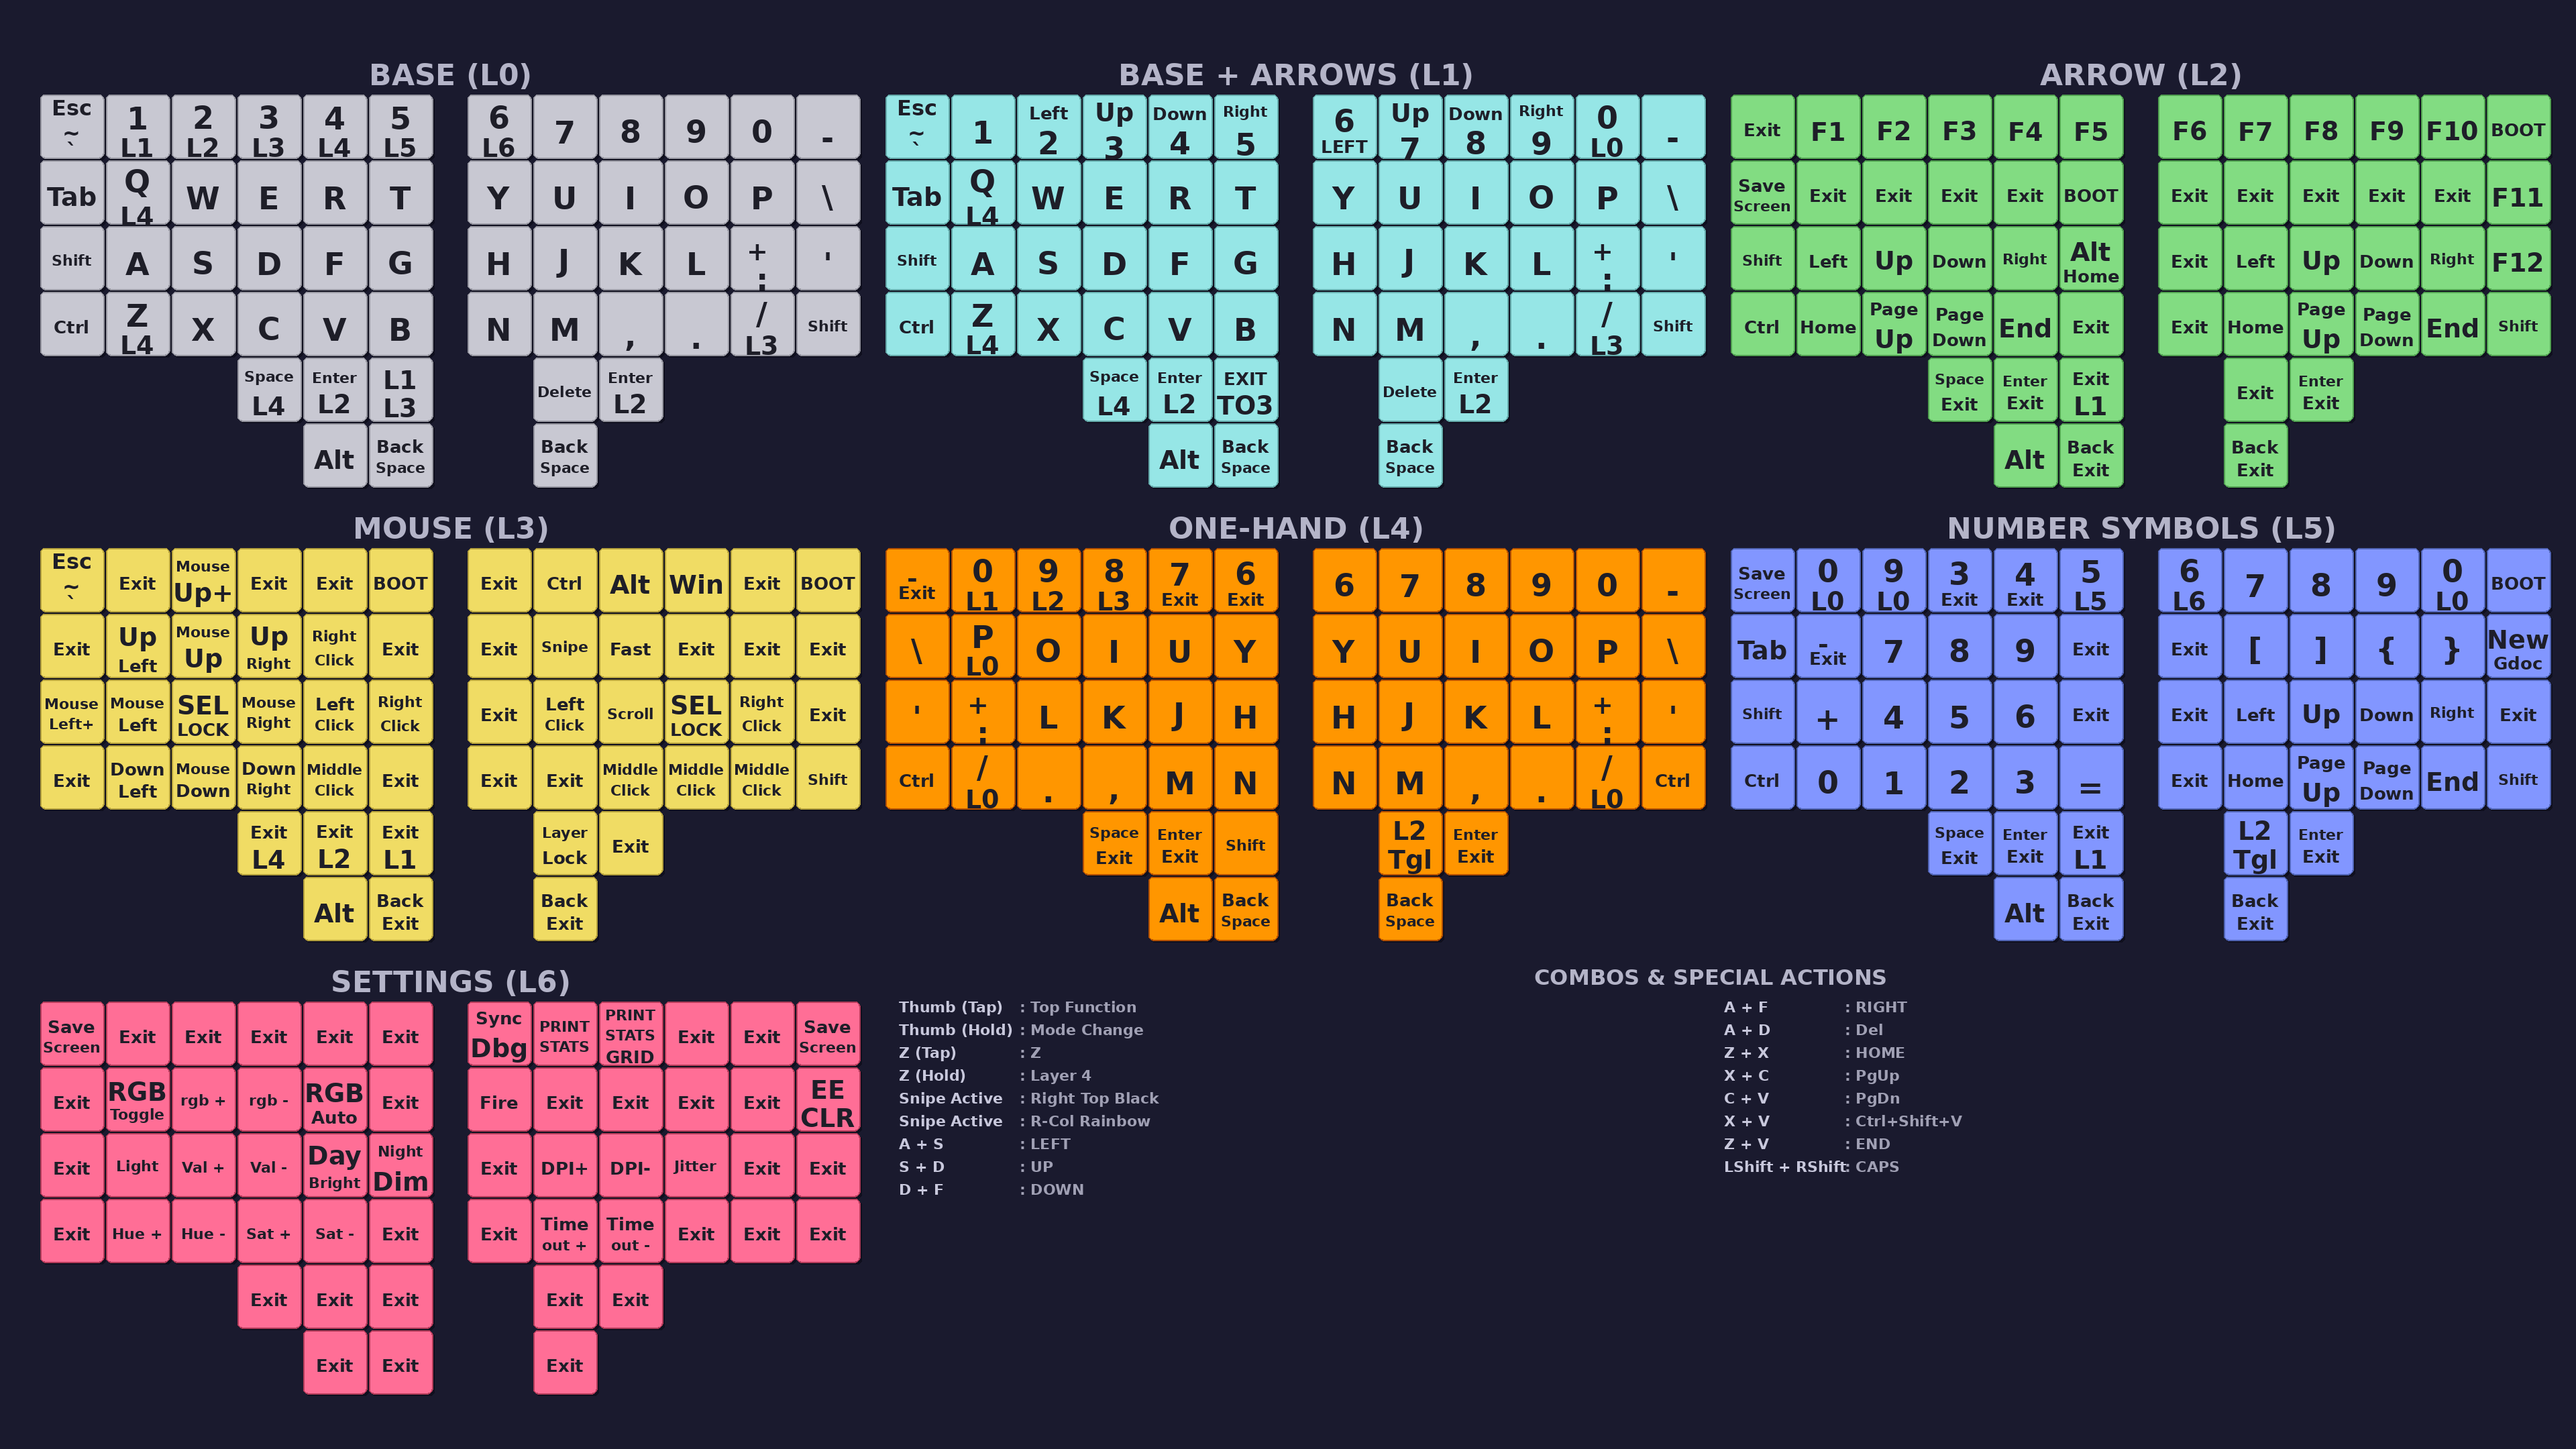
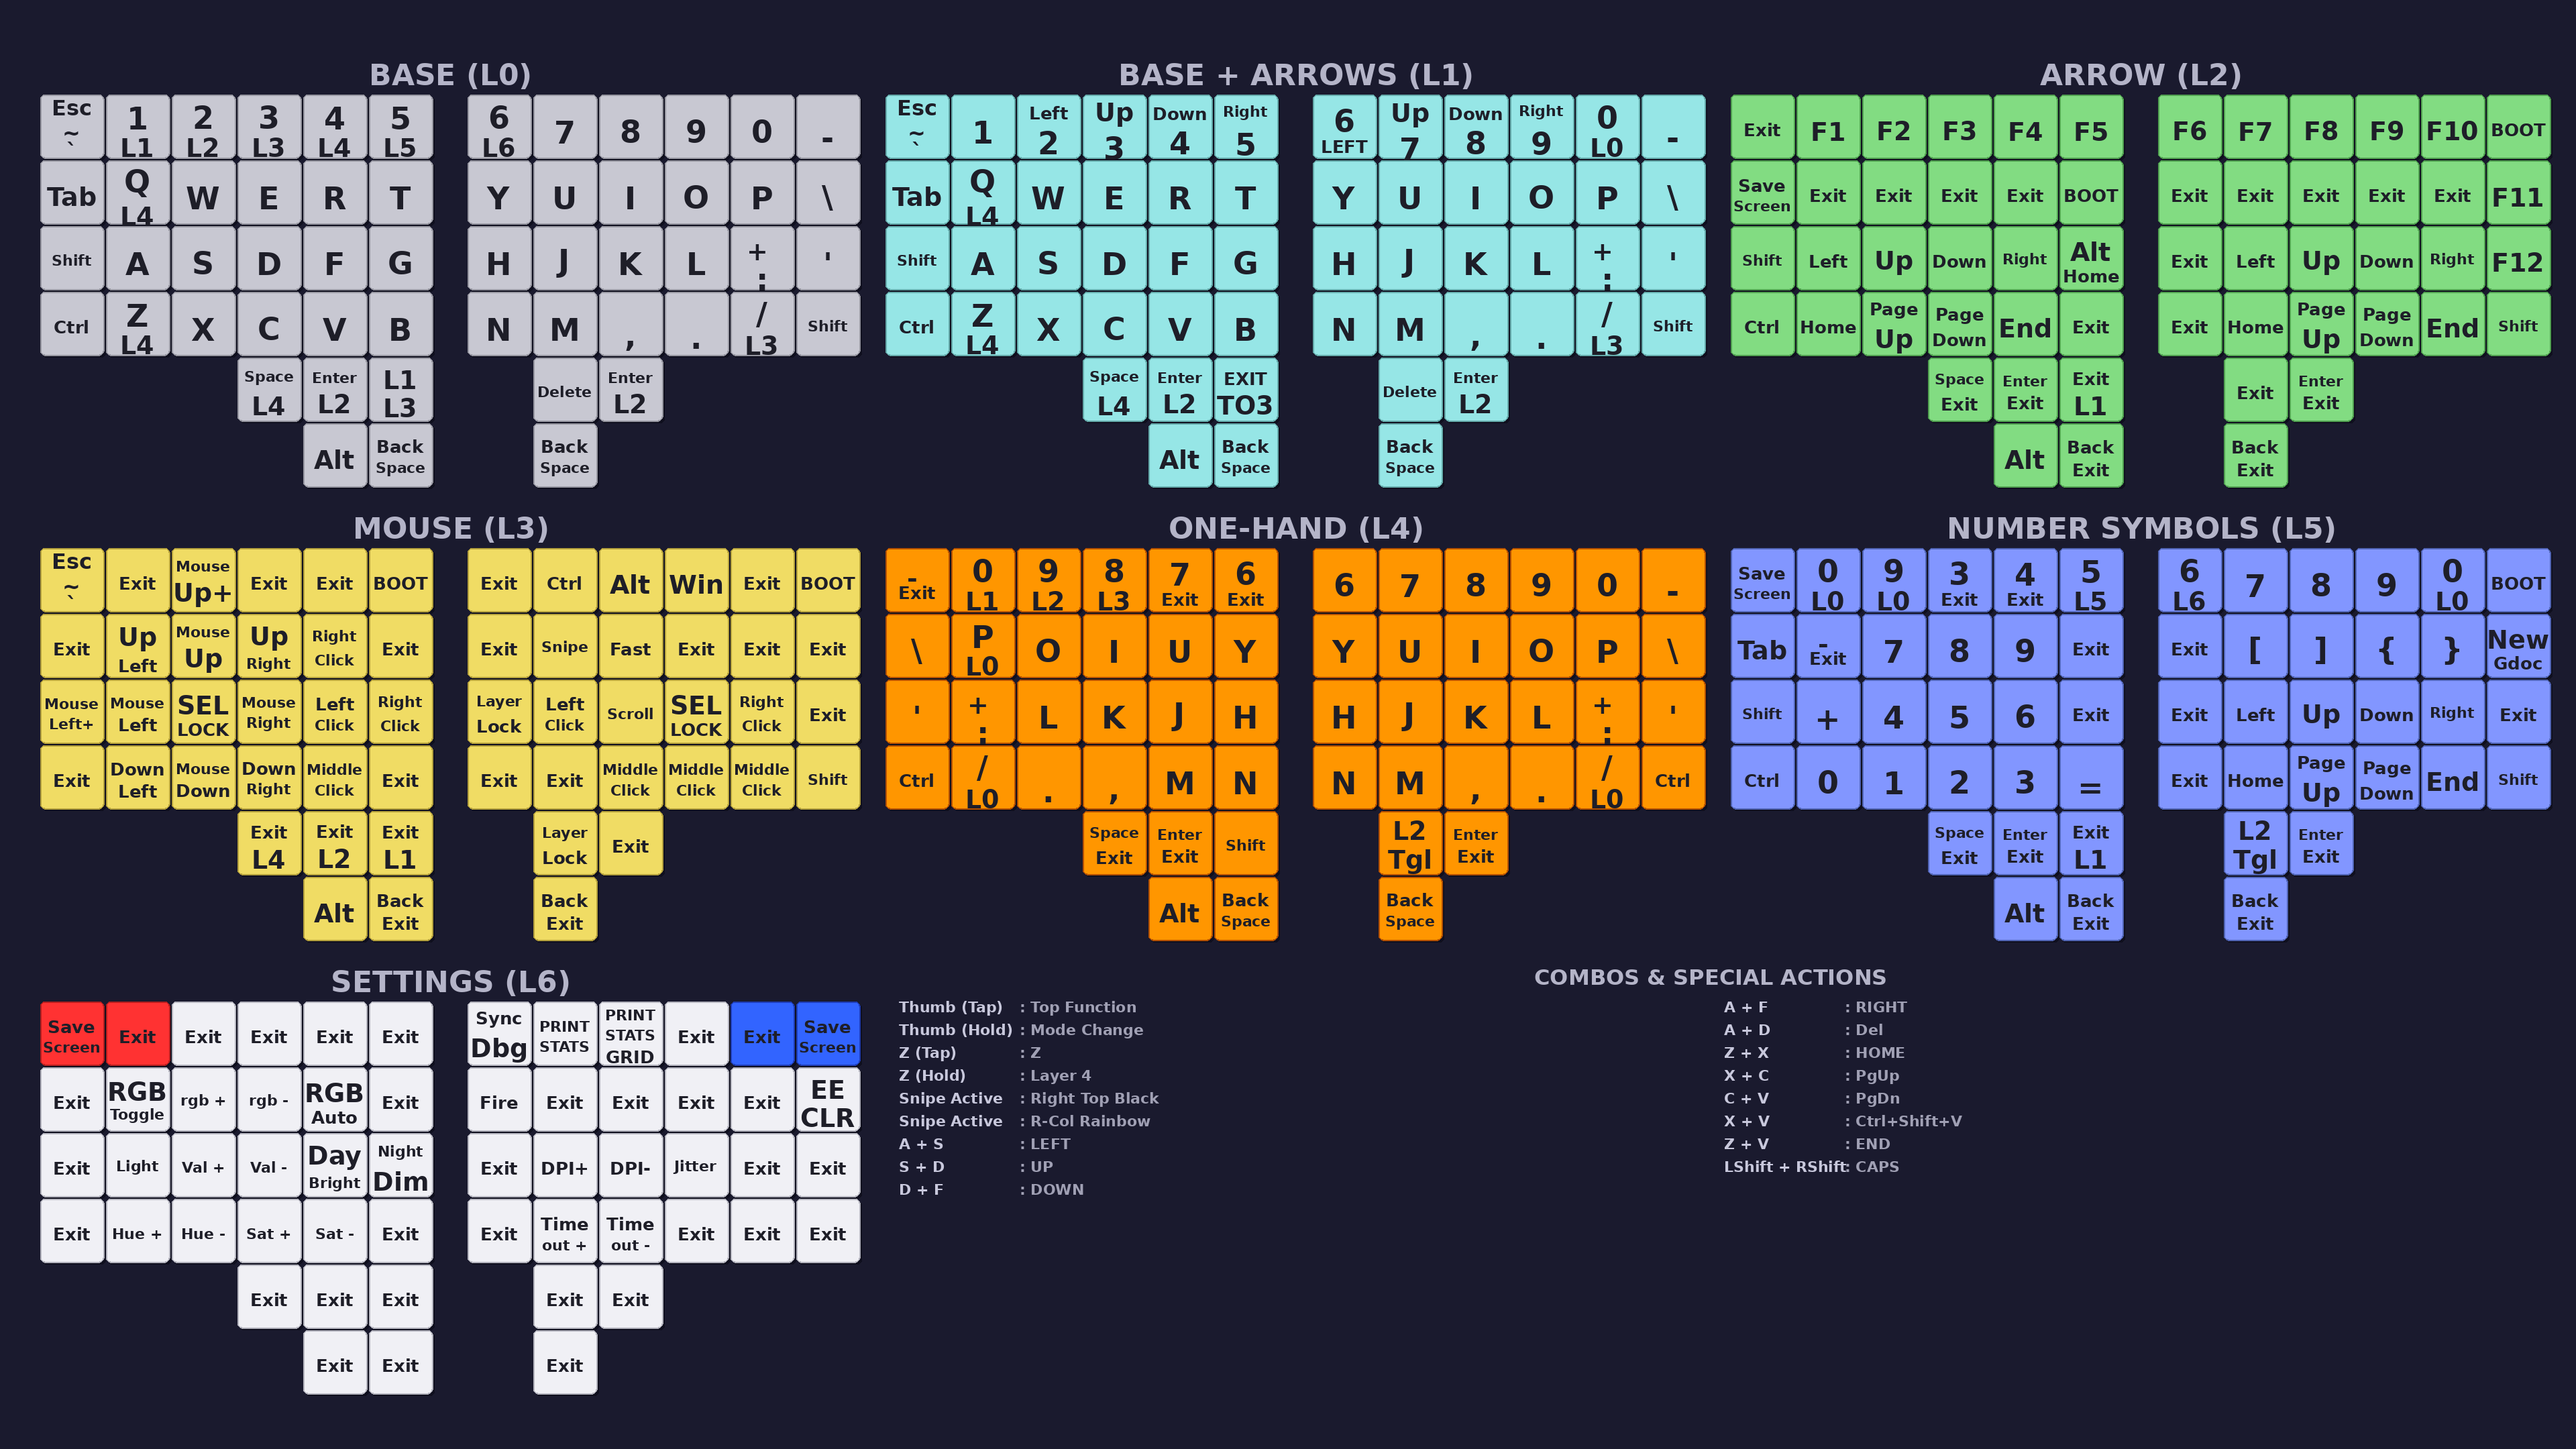
feat: add police theme to Layer 6, enhance statistics logging
- Add red/blue flashing police theme to Layer 6 (RGB, PDF, wallpaper)
- Lower minimum DPI from 800 to 200
- Enhanced statistics: add sorted physical key usage by tap count
- Improve DPI change logging with before/after values
- Move flash.sh to scripts/ directory
- Add mouse lock to Layer 3 layout

Changed region(s): [[0.0, 0.6824, 0.3438, 0.9616], [0.1875, 0.4653, 0.2188, 0.4963]]

diff --git a/keymap/keymap.c b/keymap/keymap.c
@@ -724,16 +724,11 @@ bool process_record_user(uint16_t keycode, keyrecord_t *record) {
     }
     return false;
   case DPI_MOD:
-    if (record->event.pressed) {
-      // Allow core to handle it first (return true), but log current/new DPI?
-      // Actually, core handles it on press. We can log after?
-      // Or just log that we pressed it.
-    }
-    return true; // Let core handle the DPI change
   case DPI_RMOD:
     if (record->event.pressed) {
+      uprintf("DPI Change Requested. Current DPI: %u\n", charybdis_get_pointer_default_dpi());
     }
-    return true; // Let core handle the DPI change
+    return true; // Allow process_record_kb to handle the actual DPI change
   case KC_MS_TMO_INC:
     if (record->event.pressed) {
       auto_mouse_timeout += 500;
@@ -1057,6 +1052,12 @@ bool process_record_user(uint16_t keycode, keyrecord_t *record) {
 
 void post_process_record_user(uint16_t keycode, keyrecord_t *record) {
   switch (keycode) {
+  case DPI_MOD:
+  case DPI_RMOD:
+    if (record->event.pressed) {
+      uprintf("DPI Change Executed. New DPI: %u\n", charybdis_get_pointer_default_dpi());
+    }
+    break;
   case RM_HUEU:
   case RM_HUED:
     if (record->event.pressed) {
@@ -1104,10 +1105,11 @@ const uint16_t PROGMEM keymaps[][MATRIX_ROWS][MATRIX_COLS] = {
                                                       KC_LALT, KC_BSPC_EXIT,   KC_BSPC_EXIT),
     [3] = LAYOUT(QK_GESC  , KC_EXIT    , KC_MS_FAST_UP, KC_EXIT, KC_EXIT, QK_BOOT,   KC_EXIT, KC_RCTL , KC_RALT, KC_RGUI       , KC_EXIT, QK_BOOT,
                  KC_EXIT  , KC_MS_DIAG_UL, MS_UP, KC_MS_DIAG_UR, MS_BTN2, KC_EXIT,   KC_EXIT, KC_SNIPE, KC_FAST, KC_EXIT       , KC_EXIT, KC_EXIT,
-                 KC_MS_FAST_LEFT, MS_LEFT, KC_SEL_LOCK, MS_RGHT, MS_BTN1, MS_BTN2,   KC_EXIT, MS_BTN1 , DRGSCRL, KC_SEL_LOCK   , MS_BTN2, KC_EXIT,
+                 KC_MS_FAST_LEFT, MS_LEFT, KC_SEL_LOCK, MS_RGHT, MS_BTN1, MS_BTN2,   KC_MOUSE_LOCK, MS_BTN1, DRGSCRL, KC_SEL_LOCK, MS_BTN2, KC_EXIT,
                  KC_EXIT, KC_MS_DIAG_DL, MS_DOWN, KC_MS_DIAG_DR, MS_BTN3, KC_EXIT,   KC_EXIT, KC_EXIT , MS_BTN3, MS_BTN3       , MS_BTN3, KC_RSFT,
                                       KC_L3_EXT_TO4, KC_L3_EXT_TO2, KC_L3_EXT_TO1,   KC_MOUSE_LOCK, KC_EXIT,
                                                             KC_LALT, KC_BSPC_EXIT,   KC_BSPC_EXIT),
+    // Layer 4: left hand layer                                                            
     [4] = LAYOUT(KC_MINS_TO0, KC_0_L1, KC_9_L2, KC_8_L3, KC_7_TO0, KC_6_TO0,   KC_6, KC_7, KC_8, KC_9, KC_0, KC_MINS,
                  KC_BSLS    , KC_P_TO0, KC_O    , KC_I    , KC_U    , KC_Y    ,   KC_Y, KC_U, KC_I, KC_O, KC_P, KC_BSLS,
                  KC_QUOT, KC_PLUS_COLON, KC_L   , KC_K    , KC_J    , KC_H    ,   KC_H, KC_J, KC_K, KC_L, KC_PLUS_COLON, KC_QUOT,
@@ -1121,13 +1123,14 @@ const uint16_t PROGMEM keymaps[][MATRIX_ROWS][MATRIX_COLS] = {
                  KC_LCTL, KC_0       , KC_1 , KC_2    , KC_3    , KC_EQL ,   KC_EXIT, KC_HOME, KC_PGUP, KC_PGDN   , KC_END    , KC_RSFT,
                                  KC_SPC_EXIT, KC_ENT_EXIT, KC_L1_L3,   KC_R_L2, KC_ENT_EXIT,
                                               KC_LALT, KC_BSPC_EXIT,   KC_BSPC_EXIT),
-     // Settings Layer - RGB and Mouse configuration (accessed via Hold '5')
-     [6] = LAYOUT(KC_PSCR, KC_EXIT, KC_EXIT, KC_EXIT, KC_EXIT    , KC_EXIT  ,   KC_DEBUG_SYNC, KC_PRINT_STATS, KC_PRINT_STATS_GRID, KC_EXIT  , KC_EXIT  , KC_PSCR,
-                  KC_EXIT, RM_TOGG, RM_NEXT, RM_PREV, KC_RGB_AUTO, KC_EXIT,   KC_FIRE      , KC_EXIT       , KC_EXIT            , KC_EXIT  , KC_EXIT  , QK_CLEAR_EEPROM,
-                  KC_EXIT, KC_FLASHLIGHT, RM_VALU, RM_VALD, KC_DAY, KC_NIGHT,   KC_EXIT      , DPI_MOD    , DPI_RMOD , KC_JITTER, KC_EXIT  , KC_EXIT,
-                  KC_EXIT, RM_HUEU   , RM_HUED, RM_SATU , RM_SATD , KC_EXIT ,   KC_EXIT, KC_MS_TMO_INC, KC_MS_TMO_DEC, KC_EXIT, KC_EXIT, KC_EXIT,
-                                                  KC_EXIT, KC_EXIT, KC_EXIT,   KC_EXIT, KC_EXIT,
-                                                           KC_EXIT, KC_EXIT,   KC_EXIT),
+     // Settings Layer - accessed via long press 5
+     [6] = LAYOUT(
+      KC_PSCR, KC_EXIT  , KC_EXIT, KC_EXIT  , KC_EXIT  , KC_EXIT,   KC_DEBUG_SYNC, KC_PRINT_STATS, KC_PRINT_STATS_GRID, KC_EXIT  , KC_EXIT  , KC_PSCR,
+      KC_EXIT, RM_TOGG  , RM_NEXT, RM_PREV, KC_RGB_AUTO, KC_EXIT,   KC_FIRE      , KC_EXIT       , KC_EXIT            , KC_EXIT  , KC_EXIT  , QK_CLEAR_EEPROM,
+      KC_EXIT, KC_FLASHLIGHT, RM_VALU, RM_VALD, KC_DAY, KC_NIGHT,   KC_EXIT      , DPI_MOD    , DPI_RMOD , KC_JITTER, KC_EXIT  , KC_EXIT,
+      KC_EXIT, RM_HUEU  , RM_HUED, RM_SATU  , RM_SATD  , KC_EXIT,   KC_EXIT, KC_MS_TMO_INC, KC_MS_TMO_DEC, KC_EXIT, KC_EXIT, KC_EXIT,
+                                       KC_EXIT, KC_EXIT, KC_EXIT,   KC_EXIT, KC_EXIT,
+                                                KC_EXIT, KC_EXIT,   KC_EXIT),
 };
 
 bool rgb_matrix_indicators_user(void) {

diff --git a/keymap/features/statistics.c b/keymap/features/statistics.c
@@ -126,6 +126,15 @@ static const char* get_key_name(uint16_t kc) {
     return "???";
 }
 
+typedef struct {
+    uint8_t row;
+    uint8_t col;
+    uint16_t kc;
+    const char* name;
+    uint32_t tap_count;
+    uint32_t hold_count;
+} key_stat_t;
+
 void print_statistics_now(void) {
     // Update current layer time first so it's accurate
     update_layer_stats(current_layer);
@@ -173,6 +182,51 @@ void print_statistics_now(void) {
                     kc);
             }
         }
+    }
+    uprintf("------------------------------------------------------------\n");
+
+    // Print sorted by tap usage (least used first)
+    uprintf("\n--- Physical Key Usage (Sorted by Tap Count, Least First) ---\n");
+    uprintf("Tap Count | Hold Count | Key (L0) | Row Col | Code\n");
+    uprintf("------------------------------------------------------------\n");
+    
+    key_stat_t stats[MATRIX_ROWS * MATRIX_COLS];
+    uint8_t count = 0;
+    
+    for (uint8_t r = 0; r < MATRIX_ROWS; r++) {
+        for (uint8_t c = 0; c < MATRIX_COLS; c++) {
+            uint16_t kc = pgm_read_word(&keymaps[0][r][c]);
+            if (kc != KC_NO) {
+                stats[count].row = r;
+                stats[count].col = c;
+                stats[count].kc = kc;
+                stats[count].name = get_key_name(kc);
+                stats[count].tap_count = matrix_counts_short[r][c];
+                stats[count].hold_count = matrix_counts_long[r][c];
+                count++;
+            }
+        }
+    }
+    
+    // Bubble sort by tap count (ascending)
+    for (uint8_t i = 0; i < count - 1; i++) {
+        for (uint8_t j = 0; j < count - i - 1; j++) {
+            if (stats[j].tap_count > stats[j + 1].tap_count) {
+                key_stat_t temp = stats[j];
+                stats[j] = stats[j + 1];
+                stats[j + 1] = temp;
+            }
+        }
+    }
+    
+    for (uint8_t i = 0; i < count; i++) {
+        uprintf("%9lu | %10lu | %-8s | %2d   %2d | 0x%04X\n", 
+            stats[i].tap_count, 
+            stats[i].hold_count, 
+            stats[i].name, 
+            stats[i].row, 
+            stats[i].col,
+            stats[i].kc);
     }
     uprintf("------------------------------------------------------------\n");
 }

diff --git a/wallpaper.py b/wallpaper.py
@@ -17,8 +17,12 @@ LAYER_COLORS = {
     3: (240, 220, 100),  # Yellow (Mouse)
     4: (255, 150, 0),  # Orange (One-Hand)
     5: (130, 150, 255),  # Blue (Nav)
-    6: (255, 110, 150),  # Hot Pink (Settings)
+    6: (240, 240, 245),  # White (Settings - Police theme)
 }
+
+# Police theme colors for Layer 6 corners
+L6_RED = (255, 50, 50)  # Red for top-left corner
+L6_BLUE = (50, 100, 255)  # Blue for top-right corner
 
 LAYER_NAMES = {
     0: "BASE",
@@ -38,8 +42,12 @@ KEY_BORDER_COLORS = {
     3: (180, 160, 60),
     4: (180, 80, 0),
     5: (80, 100, 180),  # Blue (Nav)
-    6: (180, 60, 90),  # Hot Pink (Settings)
+    6: (180, 180, 190),  # Gray for white keys (Settings - Police theme)
 }
+
+# Police theme border colors for Layer 6 corners
+L6_RED_BORDER = (180, 30, 30)  # Dark red for top-left corner
+L6_BLUE_BORDER = (30, 60, 180)  # Dark blue for top-right corner
 
 # Key label simplifications
 KEY_LABELS = {
@@ -787,9 +795,20 @@ def draw_layer(
         kx = start_x + int(info["x"] * (key_width + key_gap))
         ky = keys_start_y + int(info["y"] * (key_height + key_gap))
 
+        # Determine key color (special handling for Layer 6 police theme)
+        key_bg = bg_color
+        key_border = border_color
+        if layer_num == 6 and info["y"] == 0:  # Top row only
+            if info["x"] <= 1:  # Top-left corner (first 2 keys on left)
+                key_bg = L6_RED
+                key_border = L6_RED_BORDER
+            elif info["x"] >= 10:  # Top-right corner (last 2 keys on right)
+                key_bg = L6_BLUE
+                key_border = L6_BLUE_BORDER
+
         label = simplify_key(key_code, layer_num)
         if label:  # Only draw if there's a label
-            draw_key(draw, kx, ky, key_width, key_height, label, bg_color, border_color)
+            draw_key(draw, kx, ky, key_width, key_height, label, key_bg, key_border)
 
     return (max_y + 1) * (key_height + key_gap) + 55
 

diff --git a/generate_layout_pdf.py b/generate_layout_pdf.py
@@ -22,8 +22,12 @@ LAYER_COLORS = {
     3: (1.0, 1.0, 0.7),  # Yellow (Mouse)
     4: (1.0, 0.5, 0.0),  # Orange (One-Hand)
     5: (0.7, 0.7, 1.0),  # Blue (Nav)
-    6: (1.0, 0.43, 0.59),  # Hot Pink (Settings)
+    6: (0.95, 0.95, 0.95),  # White (Settings - Police theme)
 }
+
+# Police theme colors for Layer 6 corners
+L6_RED = (1.0, 0.2, 0.2)  # Red for top-left corner
+L6_BLUE = (0.2, 0.4, 1.0)  # Blue for top-right corner
 
 LAYER_NAMES = {
     0: "BASE",
@@ -706,8 +710,16 @@ def draw_layer(
         kx = start_x + info["x"] * (key_size + key_gap)
         ky = offset_y - (info["y"]) * (key_size + key_gap)
 
+        # Determine key color (special handling for Layer 6 police theme)
+        key_color = bg_color
+        if layer_num == 6 and info["y"] == 0:  # Top row only
+            if info["x"] <= 1:  # Top-left corner (first 2 keys on left)
+                key_color = L6_RED
+            elif info["x"] >= 10:  # Top-right corner (last 2 keys on right)
+                key_color = L6_BLUE
+
         label = simplify_key(key_code, layer_num)
-        draw_key(c, kx, ky, key_size, key_size, label, bg_color)
+        draw_key(c, kx, ky, key_size, key_size, label, key_color)
 
     # Return height used for this layer
     return (max_y + 1) * (key_size + key_gap) + 15

diff --git a/keymap/features/rgb.c b/keymap/features/rgb.c
@@ -229,6 +229,20 @@ bool housekeeping_rgb_indicators(void) {
     }
     break;
   }
+  case 6: {
+    // Police Theme: Top Left and Top Right keys flash Red/Blue
+    bool phase = (timer_read() / 500) % 2;
+    if (is_keyboard_left()) {
+      // Left Top-Left (Esc) is LED 0
+      if (phase) rgb_matrix_set_color(0, 255, 0, 0); // Red
+      else       rgb_matrix_set_color(0, 0, 0, 255); // Blue
+    } else {
+      // Right Top-Right (Minus) is LED 0
+      if (phase) rgb_matrix_set_color(0, 0, 0, 255); // Blue
+      else       rgb_matrix_set_color(0, 255, 0, 0); // Red
+    }
+    break;
+  }
   }
 
   // Layer indicator logic: When on layer 0 (base), clear the indicator for layer 1 (LED at index 9)

diff --git a/keymap/config.h b/keymap/config.h
@@ -5,7 +5,7 @@
 #define POINTING_DEVICE_RIGHT
 
 /* Charybdis Mouse Tuning */
-#define CHARYBDIS_MINIMUM_DEFAULT_DPI 800
+#define CHARYBDIS_MINIMUM_DEFAULT_DPI 200
 #define CHARYBDIS_DEFAULT_DPI_CONFIG_STEP 200
 #define CHARYBDIS_DRAGSCROLL_DIVISOR 4    // Lower = faster scrolling (default is 8)
 
